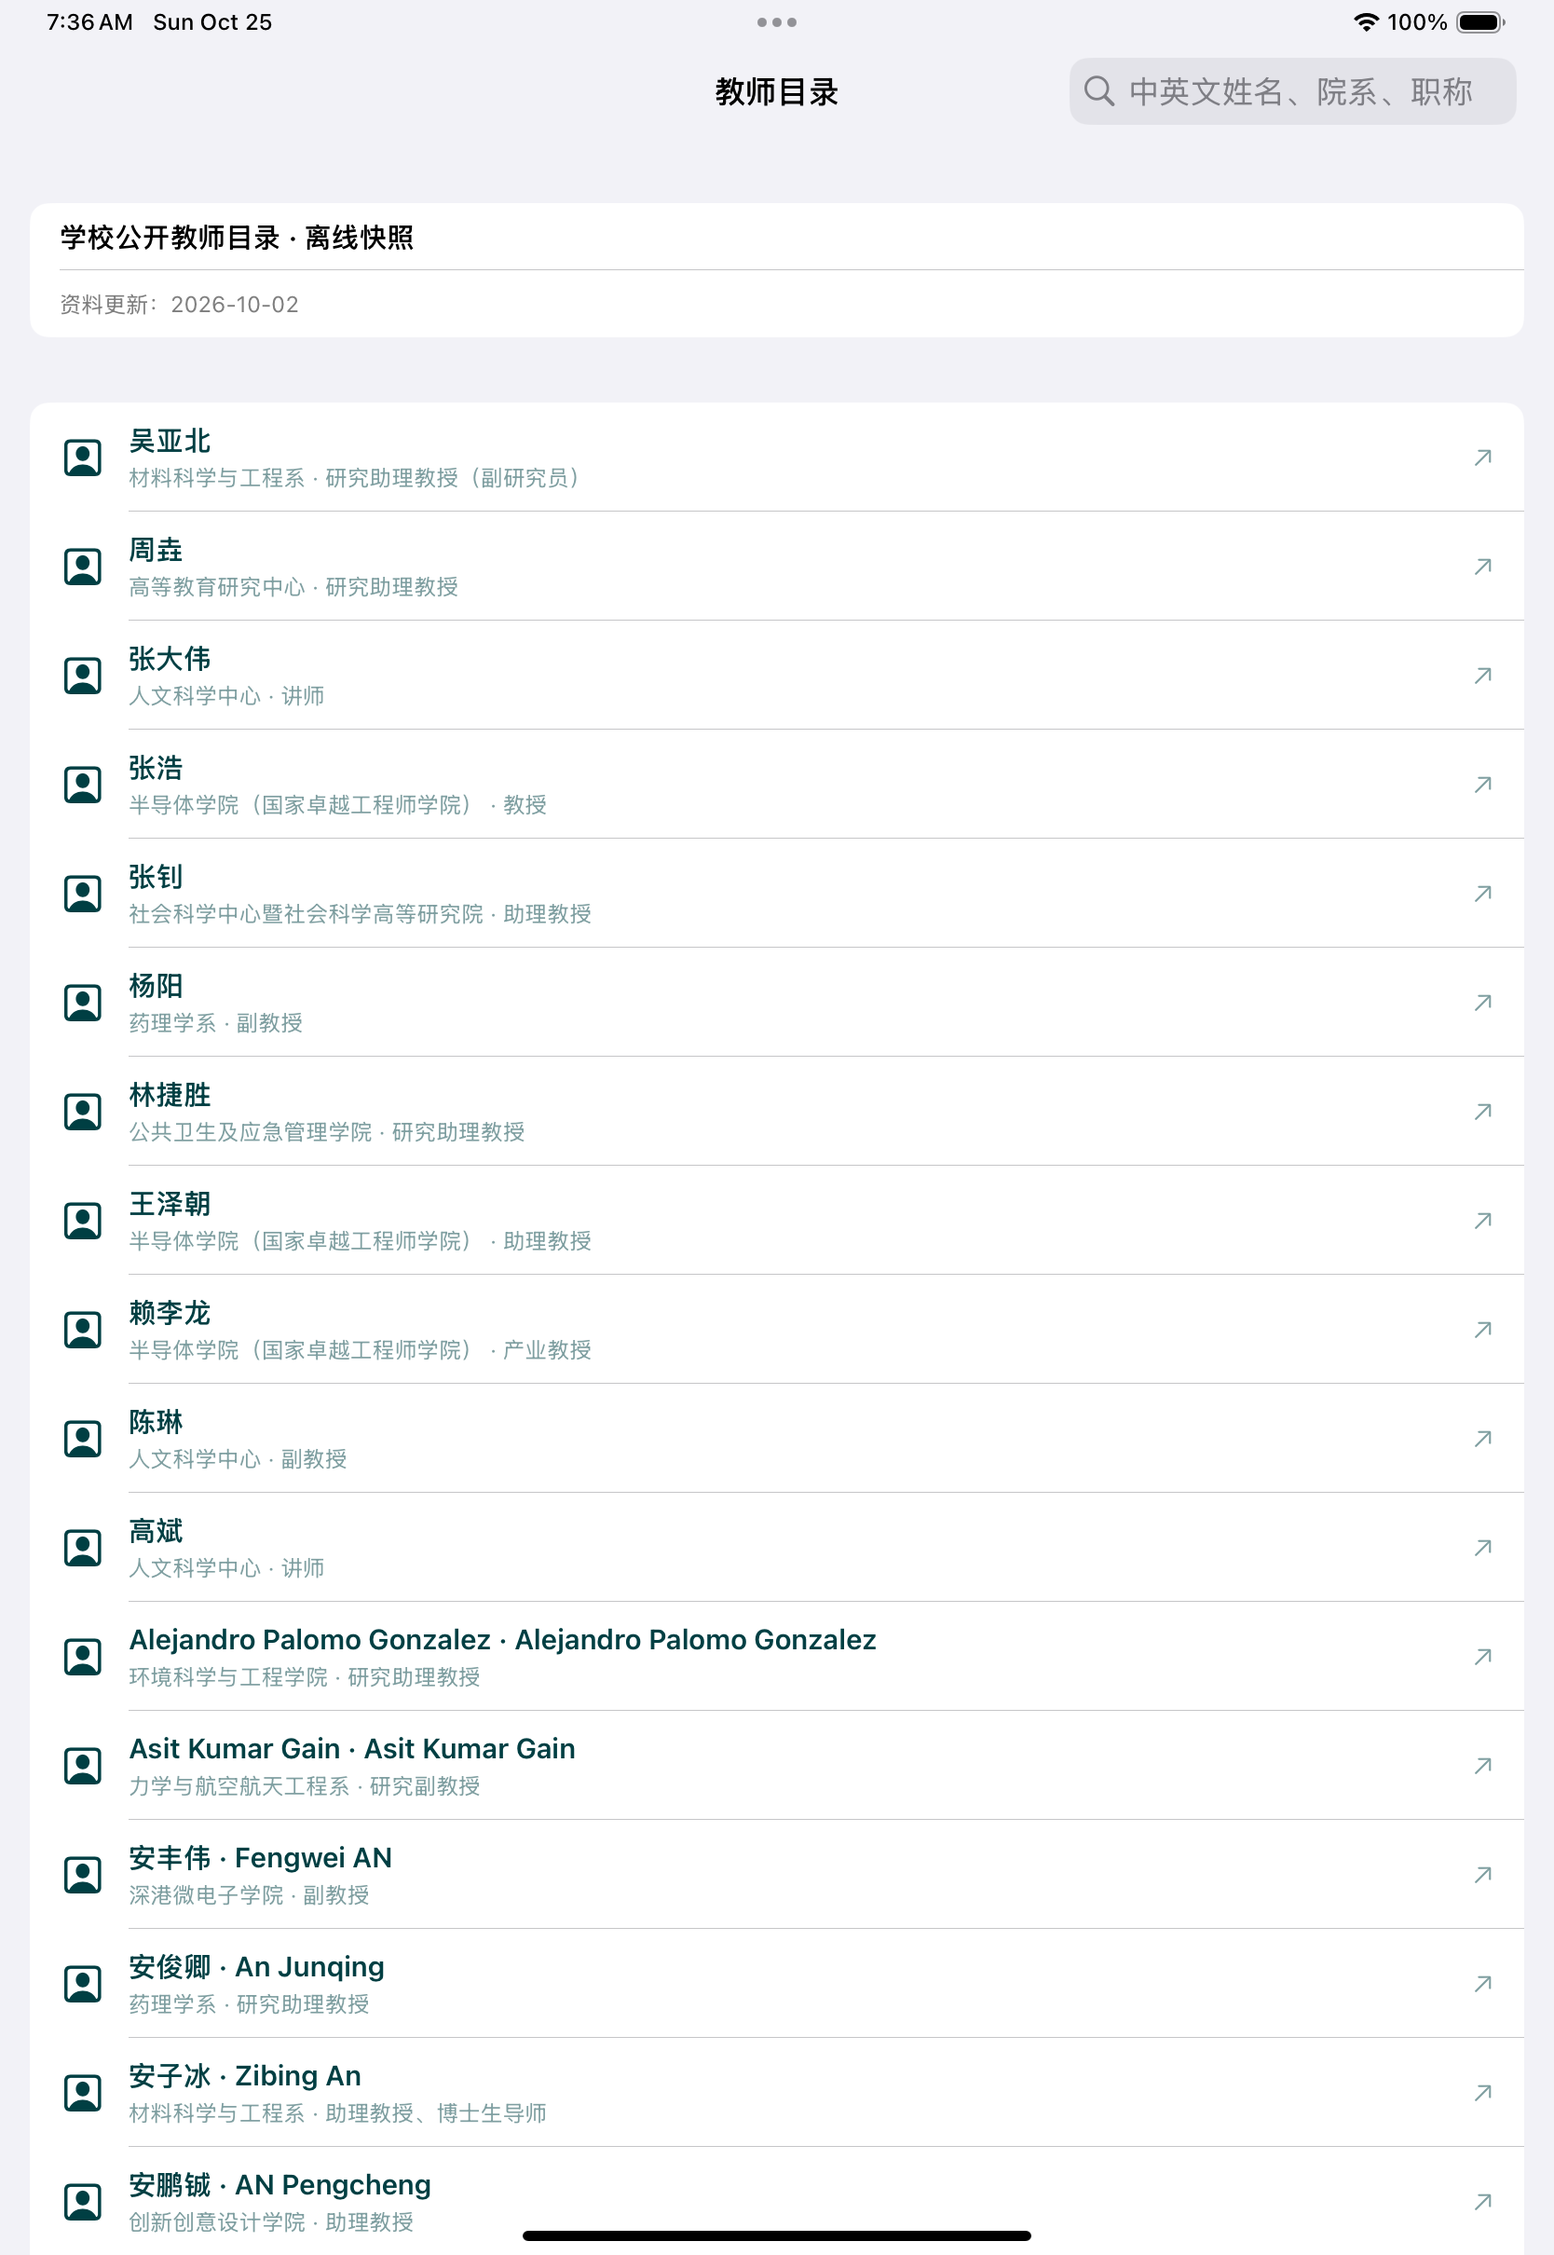
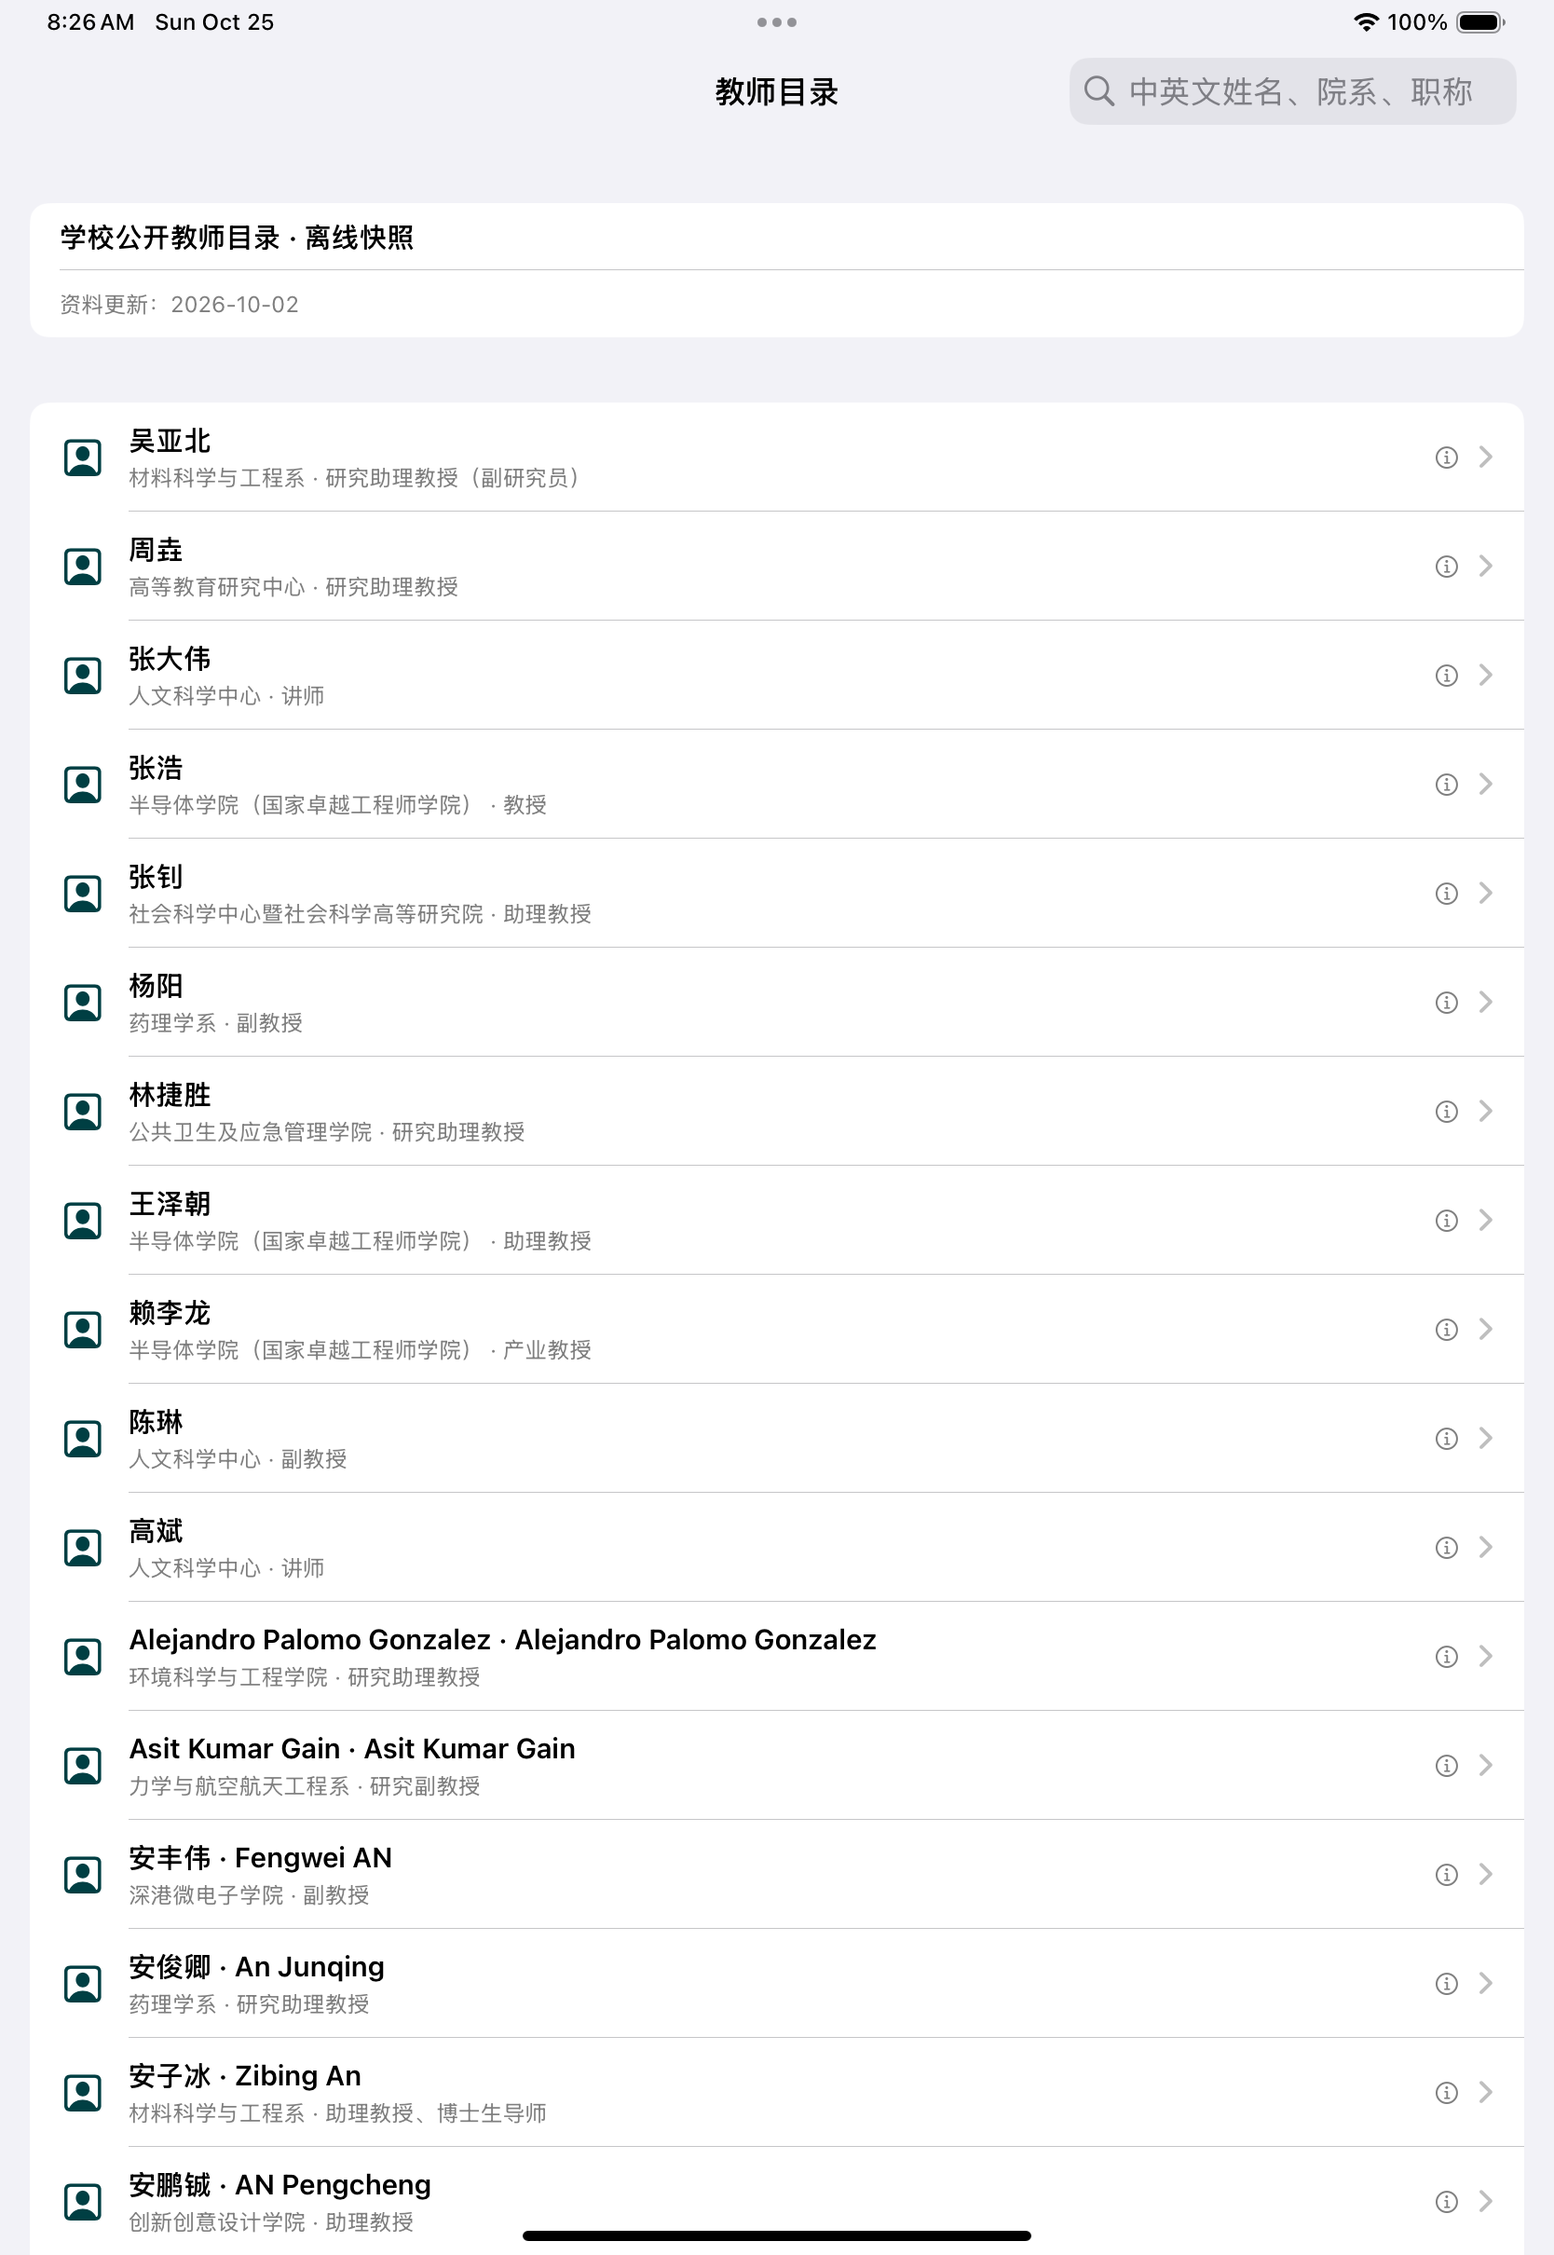
Publish verified 0.6 map and faculty screenshots and package evidence

diff --git a/README.md b/README.md
@@ -39,7 +39,7 @@
 
 | 模块 | 已实现的能力 | 使用边界 |
 | --- | --- | --- |
-| 今天 | 校园天气/US AQI、下一节课/考试、今日课程、BB 任务与常用入口 | 折叠课程不进入截止日期汇总；不自动扫描全部 BB 历史 |
+| 今天 | 当前教学周、校园天气/US AQI、下一节课/考试、今日课程、BB 任务与常用入口 | 折叠课程不进入截止日期汇总；不自动扫描全部 BB 历史 |
 | 学校登录 | 原生 CAS 表单、App 内网页共享会话、Keychain 保留 Cookie、按需交换业务会话 | 不保存密码；有效期由学校决定；验证码与独立 OAuth 仍需本人操作 |
 | 课表与考试 | 网格/列表周课表、本学期课程汇总、教学日历、放假与补课、考试和离线缓存 | 全学期失败时当前周回退；未知周次和临时调整需核对 |
 | 成绩 | 分页读取、学期筛选、成绩与学分、GPA 记录试算 | 不代表学校官方总 GPA 或毕业审核结论 |
@@ -75,7 +75,19 @@
 
 ## 界面截图
 
-以下为云端 iOS 模拟器实际运行的 **0.5.0 界面截图**，包含 iPhone/iPad、深色外观及大字号。课程、任务、余额等为虚构示例或未连接状态；教师目录为学校已公开资料快照；不含真实学生账号或认证凭据。完整截图运行 [40172533665](https://github.com/aNother1332/sustech-mobile-ios/actions/runs/40172533665)，界面提交 `6f752ef`。最后的校历/小组件过期逻辑、官方项目详情控件与说明修正经[最终构建 40173815553](https://github.com/aNother1332/sustech-mobile-ios/actions/runs/40173815553)验证，78 项 Swift 测试与 8 项打包测试通过，重点场景另复查 12 张。每张图的来源见 [SOURCES.json](docs/screenshots/SOURCES.json)。截图不作为真实校园业务验收。
+以下为云端 iOS 模拟器实际运行的 **0.5／0.6 版本界面截图（70 张）**，包含 iPhone/iPad、深色外观及大字号。课程、任务、余额等为虚构示例或未连接状态；教师目录为学校已公开资料快照；不含真实学生账号或认证凭据。0.5 基础界面运行 [40172533665](https://github.com/aNother1332/sustech-mobile-ios/actions/runs/40172533665)，界面提交 `6f752ef`。最后的校历/小组件过期逻辑、官方项目详情控件与说明修正经[最终构建 40173815553](https://github.com/aNother1332/sustech-mobile-ios/actions/runs/40173815553)验证，78 项 Swift 测试与 8 项打包测试通过，重点场景另复查 12 张。每张图的来源见 [SOURCES.json](docs/screenshots/SOURCES.json)。截图不作为真实校园业务验收。
+
+### 0.6 校园巴士地图与教师联系方式
+
+地图采用原生 Apple 地图，车辆为虚构示例；路线与站点来自 CRA 公开数据快照。浅色、深色和 iPad 地图均已实际运行，自动检查确认加载 4 条线路、351 个轨迹点、33 个站点与 2 辆示例车。
+
+| iPhone | iPad |
+| --- | --- |
+| ![校园巴士地图（示例车辆）](docs/screenshots/iPhone-bus-map.png) | ![校园巴士地图（示例车辆）](docs/screenshots/iPad-bus-map.png) |
+| ![深色巴士地图](docs/screenshots/iPhone-bus-map-dark.png) | ![深色巴士地图](docs/screenshots/iPad-bus-map-dark.png) |
+| ![教师联系方式（虚构示例）](docs/screenshots/iPhone-faculty-detail.png) | ![教师联系方式（虚构示例）](docs/screenshots/iPad-faculty-detail.png) |
+
+新增地图截图运行 [40177111042](https://github.com/aNother1332/sustech-mobile-ios/actions/runs/40177111042)，教师详情运行 [40175903374](https://github.com/aNother1332/sustech-mobile-ios/actions/runs/40175903374)。教师详情中的邮箱与办公室为虚构样例，真实使用按需读取官方页面。名录与既有页面保留各版本截图，70 个文件的来源记录于 SOURCES.json。
 
 ### 学校标识色与深色外观
 

diff --git a/docs/BUILD_VALIDATION.md b/docs/BUILD_VALIDATION.md
@@ -1,3 +1,24 @@
+# 0.6.0（构建 9）验收
+
+- 最终包源码：`e07485d9c80f56d8e0c9043330e49e4f36ce3d60`，已在 main。
+- 最终成功构建：[40178259028](https://github.com/aNother1332/sustech-mobile-ios/actions/runs/40178259028)。84 项 Swift 测试、8 项 Python 打包测试通过；模拟器与 arm64 iPhoneOS 主应用、分享和 Widget 扩展编译通过。使用临时验证分支，避免中断地图截图；最终周次徽标修正通过编译，未重复拍摄已有页面。
+- 地图成功运行：[40177111042](https://github.com/aNother1332/sustech-mobile-ios/actions/runs/40177111042)，界面源码 `c284168`。iPhone/iPad 浅色、深色四次均检查到 4 条线路、351 个轨迹点、33 个站点、2 辆虚构车；检查截图可见轨迹、站点和新旧位置不同标记。包括桌面共 6 张。
+- 教师详情/名录与首页来自运行 [40175903374](https://github.com/aNother1332/sustech-mobile-ios/actions/runs/40175903374)，源码 `e37b382`；只采用教师详情/名录图片，未采用该轮空示例地图。首页日期教学周已实际启动验证，最后进一步统一课程徽标与上海时区。
+- 图库现有 70 张跨 0.5/0.6 的场景/设备截图，精确来源见 [SOURCES.json](screenshots/SOURCES.json)。地图和联系方式截图使用虚构车辆/教师联系方式；路线与站点为公开快照。
+- 最终 IPA 的 ZIP、SHA256、版本 0.6.0/9、最低 iOS 17、设备族 [1,2]、名称 SUSTechMobile、Bundle ID、主程序和两个扩展 arm64 Mach-O 已核对。普通包不含 PlugIns。
+- 文件位于 `D:/Altstore/App/SUSTechMobile-0.6.0`；日志 `D:/Altstore/Diagnostics/SUSTechMobile-0.6-final-build.log`、`SUSTechMobile-0.6-map-build.log`。
+
[2 lines of base64/hex data omitted]
+
+公开接口只读检查确认 routes/vehicles 的返回字段和教师官网邮箱模板。未在真实设备使用校园账号或 Apple 签名；车辆真实上报延迟、校园内底图对齐、教师页面动态/失效链接、扩展签名仍需本人设备验收。办公室必须来自明确标签，未公开/未识别时保留缺失提示。
+
+此前本地旧版本清理被自动审批拒绝，本次未重试或绕过，旧版目录仍保留。
+
+说明：[0.6 发布说明](RELEASE_0_6.md)、[源与界面检查](REVIEW_0_6.md)、[设备清单](DEVICE_TESTING.md)。
+
+---
+
 # 0.5.0（构建 8）验收
 
 - 最终安装包源码：`778d84205ec6781de4d2ad10d2d7f6c91ae97725`。

diff --git a/docs/REVIEW_0_6.md b/docs/REVIEW_0_6.md
@@ -1,0 +1,22 @@
+# 0.6 source and UI verification
+
+- Native bus implementation reads CRA public protocol; no Vue components or map tiles copied.
+  Route/stop demonstration snapshot attributed CC BY-SA 4.0 with bundled license and in-app link.
+- GPS source time is independent of API receipt/fetch time. Invalid/zero coordinates rejected;
+  stale/unknown time turns markers gray. No dead reckoning. Only foreground polling.
+- Routes/stops may fail independently; vehicle loading remains available, missing metadata retries.
+- Map demo initializes even before app scene becomes active. Simulator smoke requires a freshly
+  written populated-state proof (routes, points, stops, vehicles) before accepting map screenshots.
+- Map captures confirmed 4 routes, 351 points, 33 stops and 2 fake vehicles on both device families
+  and in light/dark appearance. Inspected all three principal map captures, teacher details and Today.
+  Route tracks visually follow campus roads at captured zoom; physical-device coordinate calibration
+  and actual GPS reporting delay remain to be checked on campus.
+- Teacher fetch is public and uses isolated ephemeral sessions, no school credentials. Redirects
+  restricted to official HTTPS domains; one personal-page follow only. Office must be explicitly
+  labeled, never inferred from a generic campus/mailing address or a building icon.
+- Public cache has seven-day freshness with manual refresh; failed cache writes do not claim network
+  failure. Mail links constructed as URL components, no automatic mail sending.
+- Home date and week use Shanghai boundaries; course badge aligned with the same matching calendar.
+
+No real school write operations or Apple authentication were used. Teacher contact demo is fictional;
+public source read checks do not guarantee every teacher publishes an office or has a working homepage.

diff --git a/docs/INTERFACES.md b/docs/INTERFACES.md
@@ -105,3 +105,22 @@ Pinned Android evidence: `dumixthestpd/sustech-mobile@509a65357579f220d69b582956
 
 No campus/identity QR text is persisted or sent to widgets. Widget shared storage is opt-in
 text/time snapshots only; authenticating cookies remain in the main app's on-device session store.
+
+
+## 0.6 public bus map and faculty contacts
+
+Reference CRA source: https://github.com/sustech-cra/sustech-online-ng/tree/48c9773c38619761e82c5c639542dc4737517b85/docs/.vuepress/components/bus-v2
+
+- `/routes`: direction `geometry_json` is a JSON longitude/latitude array string; direction
+  `stops` gives stop IDs in travel order. Native MapKit draws these source coordinates as-is.
+- `/vehicles` and optional `/vehicles/all`: `id`, `route_id`, `route_direction_id`, `latitude`,
+  `longitude`, `vehicle_type`, `heading`, `speed`, `next_stop_name`, `operating`, `data_status`,
+  `source_updated_at` / Unix `source_time`, and `received_at`. Receive/fetch time never substitutes
+  for a fresh source report. Unknown or >120-second source age is gray; positions are not extrapolated.
+- Public routes/vehicles read-only checks on 2026-10-25 returned arrays matching these fields.
+  Runtime polls vehicles every 10 seconds only while the map is foregrounded; routes/stops
+  load once/retry when absent/manual refresh. Public clients receive no school authentication.
+- Teacher public school pages: `message-left` contact sidebar supplies envelope/email and
+  official personal-homepage link. Explicit `办公室/办公地点/办公地址/Office` labels supply office;
+  a generic campus/mailing address is not converted into a teacher's office. One optional official
+  personal-page request; no bulk profile crawl or guessed contacts. Cache is public data, seven days.

diff --git a/docs/DEVICE_TESTING.md b/docs/DEVICE_TESTING.md
@@ -98,3 +98,14 @@
 - [ ] 小组件、分享扩展所需的工程/签名能力和数据保护方案另行验证。
 
 预约、取消、续借、选退课、作业提交等真实写操作必须分别核对确认与回执，不在只读验收中顺手执行。
+
+
+## 0.6 首页、教师与地图
+
+1. 未登录时打开首页，核对学校校历中的当前教学周；切换本科/研究生校历，并检查日期与教学周一致。
+2. 教师目录选择一位教师，核对邮箱和办公室与官方页面；尝试复制、邮件、下拉刷新，再离线重新打开。
+   对未提供办公室、失效个人主页、脚本加载页面，确认缺失提示和官方链接，不接受推测地址。
+3. 校车地图核对校园底图、线路轨迹与站点对齐；选择线路、点击车辆与站点，检查真实方向和下一站。
+4. 比较车辆上报时间与接口读取时间；断网/上游停止上报后应保留旧时间、标灰，不应伪造新位置。
+5. 切后台再回来、地图/站点切换、暂停服务车辆开关、网络恢复后重试；停留地图时应约每10秒更新。
+6. iPhone/iPad、浅色/深色、地图旋转缩放和系统大字号；示例车位置与示例联系方式不得作为真实数据。

diff --git a/docs/FEATURE_ROADMAP.md b/docs/FEATURE_ROADMAP.md
@@ -1,3 +1,5 @@
+> **0.6.0：** 首页教学周、原生教师邮箱/办公室详情、原生校园巴士地图已实现。地图参考 sustech-online-ng 的公开协议，保留站点与到站页。验证与边界见 [RELEASE_0_6.md](RELEASE_0_6.md)。
+
 > **0.5.0 当前进展：** 已加入校园码/身份码、2026 校历与调课、网格课表、教师目录、交换项目、附近校车、天气/AQI、诊断、扫描删除、更新检查和 WidgetKit 扩展，并使用学校官方标识色重设计。实现与边界见 [RELEASE_0_5.md](RELEASE_0_5.md)。下面旧计划是历史记录，不能据此判断当前缺失功能。校园认证业务及扩展签名仍需真机验收。
 
 # 下一阶段功能分析与建议

diff --git a/docs/RELEASE_0_6.md b/docs/RELEASE_0_6.md
@@ -22,3 +22,9 @@ basemap, no CRA tiles or Vue code bundled. Source links and data license are ava
 
 Earlier limits remain: no verified full native recharge order contract, no physical-device
 App Groups signing validation. No actual payment, printing, booking or deletion during tests.
+
+
+Validation: final build 40178259028 at e07485d, 84 Swift tests and 8 Python tests;
+main app/share/widget simulator and device builds passed. Map UI run 40177111042 checked
+populated overlays on iPhone/iPad in light/dark mode. Exact screenshot/IPA provenance is in
+BUILD_VALIDATION.md and screenshots/SOURCES.json. Physical-device boundaries above remain.
